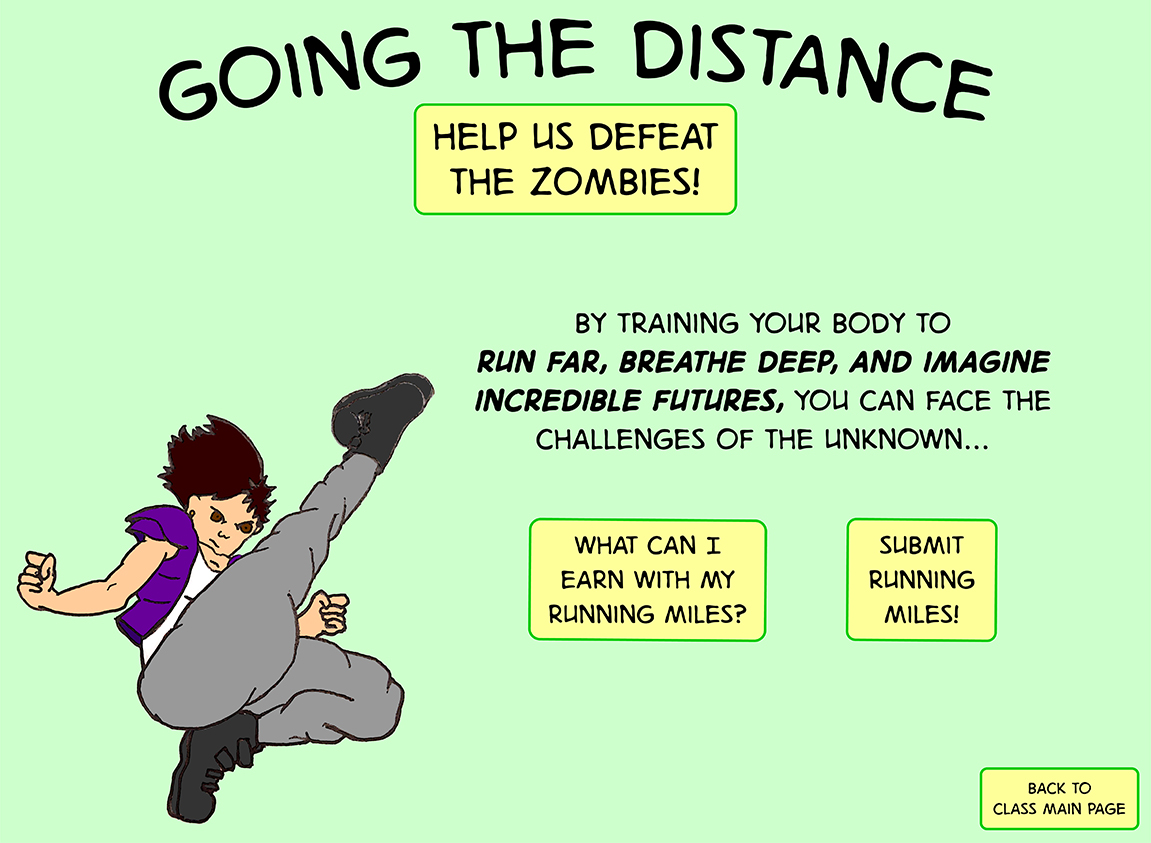
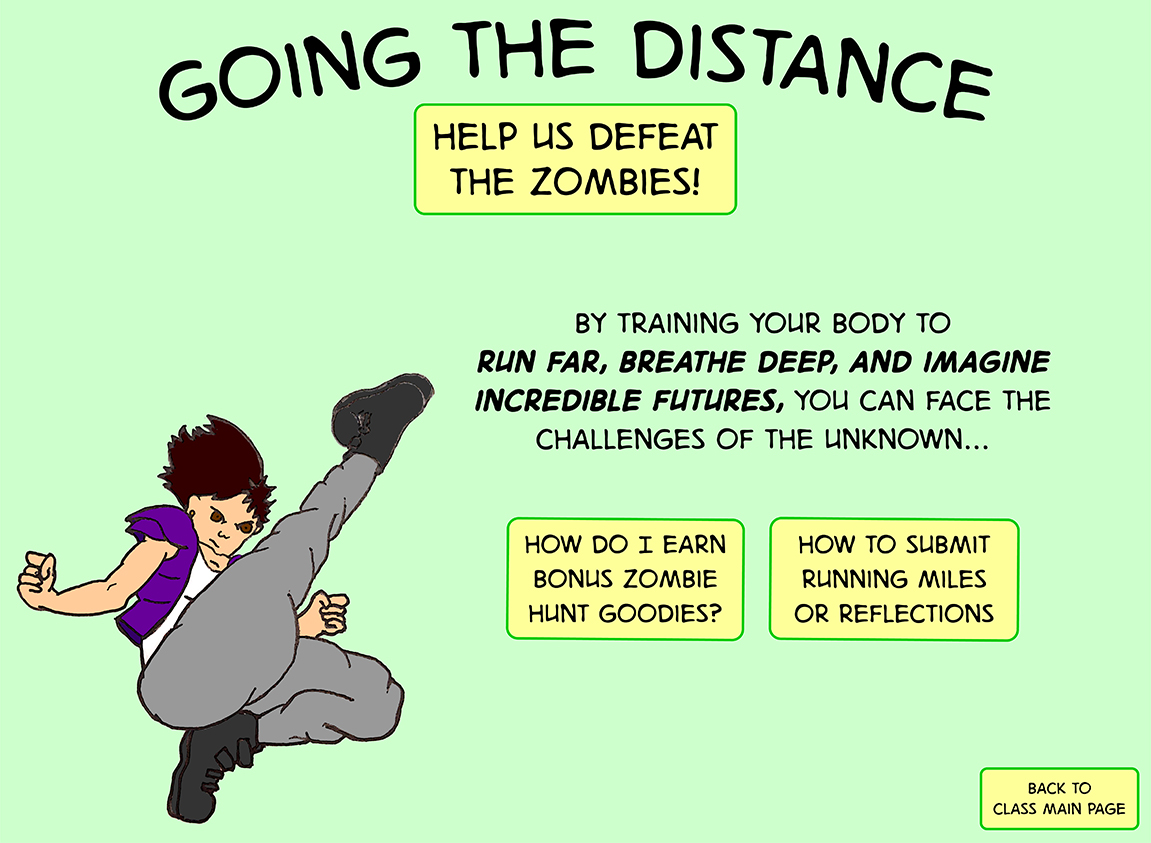
updated zombie challenge

Changed region(s): [[0.4257, 0.586, 0.9123, 0.7711]]

diff --git a/classroom_tauntaun_zombies.html b/classroom_tauntaun_zombies.html
@@ -13,8 +13,8 @@
 <center><img src="assets/maps/classroom_tauntaun_zombies.jpg" usemap="#image-map"></center>
 
 <map name="image-map">
-    <area target="" alt="Running Miles Menu" title="Running Miles Menu" class="lightwindow" params="lightwindow_width=1001,lightwindow_height=517" href="/assets/images/classroom_tauntaun_runningMilesZombie.jpg" coords="528,517,767,639" shape="rect">
-    <area target="" alt="Submit Running Miles" title="Submit Running Miles" href="https://aicl2020.github.io/classroom_tauntaun_submissions.html" coords="844,519,995,641" shape="rect">
+    <area target="" alt="Bonus Goodies Menu" title="Bonus Goodies Menu" class="lightwindow" params="lightwindow_width=1001,lightwindow_height=517" href="/assets/images/classroom_tauntaun_runningMilesZombie.jpg" coords="501,514,745,641" shape="rect">
+    <area target="" alt="How to Submit" title="How to Submit" href="https://aicl2020.github.io/classroom_tauntaun_submissions.html" coords="768,515,1022,642" shape="rect">
     <area target="" alt="Back to Class Main Page" title="Back to Class Main Page" href="https://aicl2020.github.io/classroom_tauntaun_main.html" coords="980,767,1139,827" shape="rect">
     <area target="" alt="Ninja Tauntaun" title="Ninja Tauntaun" href="https://aicl2020.github.io/anti_zombie_hq.html" coords="208,413,183,423,168,434,165,459,160,465,158,478,164,487,168,498,146,502,132,509,119,517,123,533,111,565,96,578,69,583,55,580,54,556,27,548,14,582,36,611,53,614,86,613,112,623,137,649,137,669,136,701,149,719,166,727,179,736,174,745,167,770,165,807,196,823,209,820,218,804,218,790,226,775,241,764,252,768,265,751,301,745,340,740,390,737,408,689,378,653,347,638,350,615,348,589,317,581,332,558,375,486,393,458,405,436,435,393,427,375,406,373,379,383,333,402,332,429,337,451,320,475,302,497,284,511,273,494,278,476,256,434" shape="poly">
 </map>
